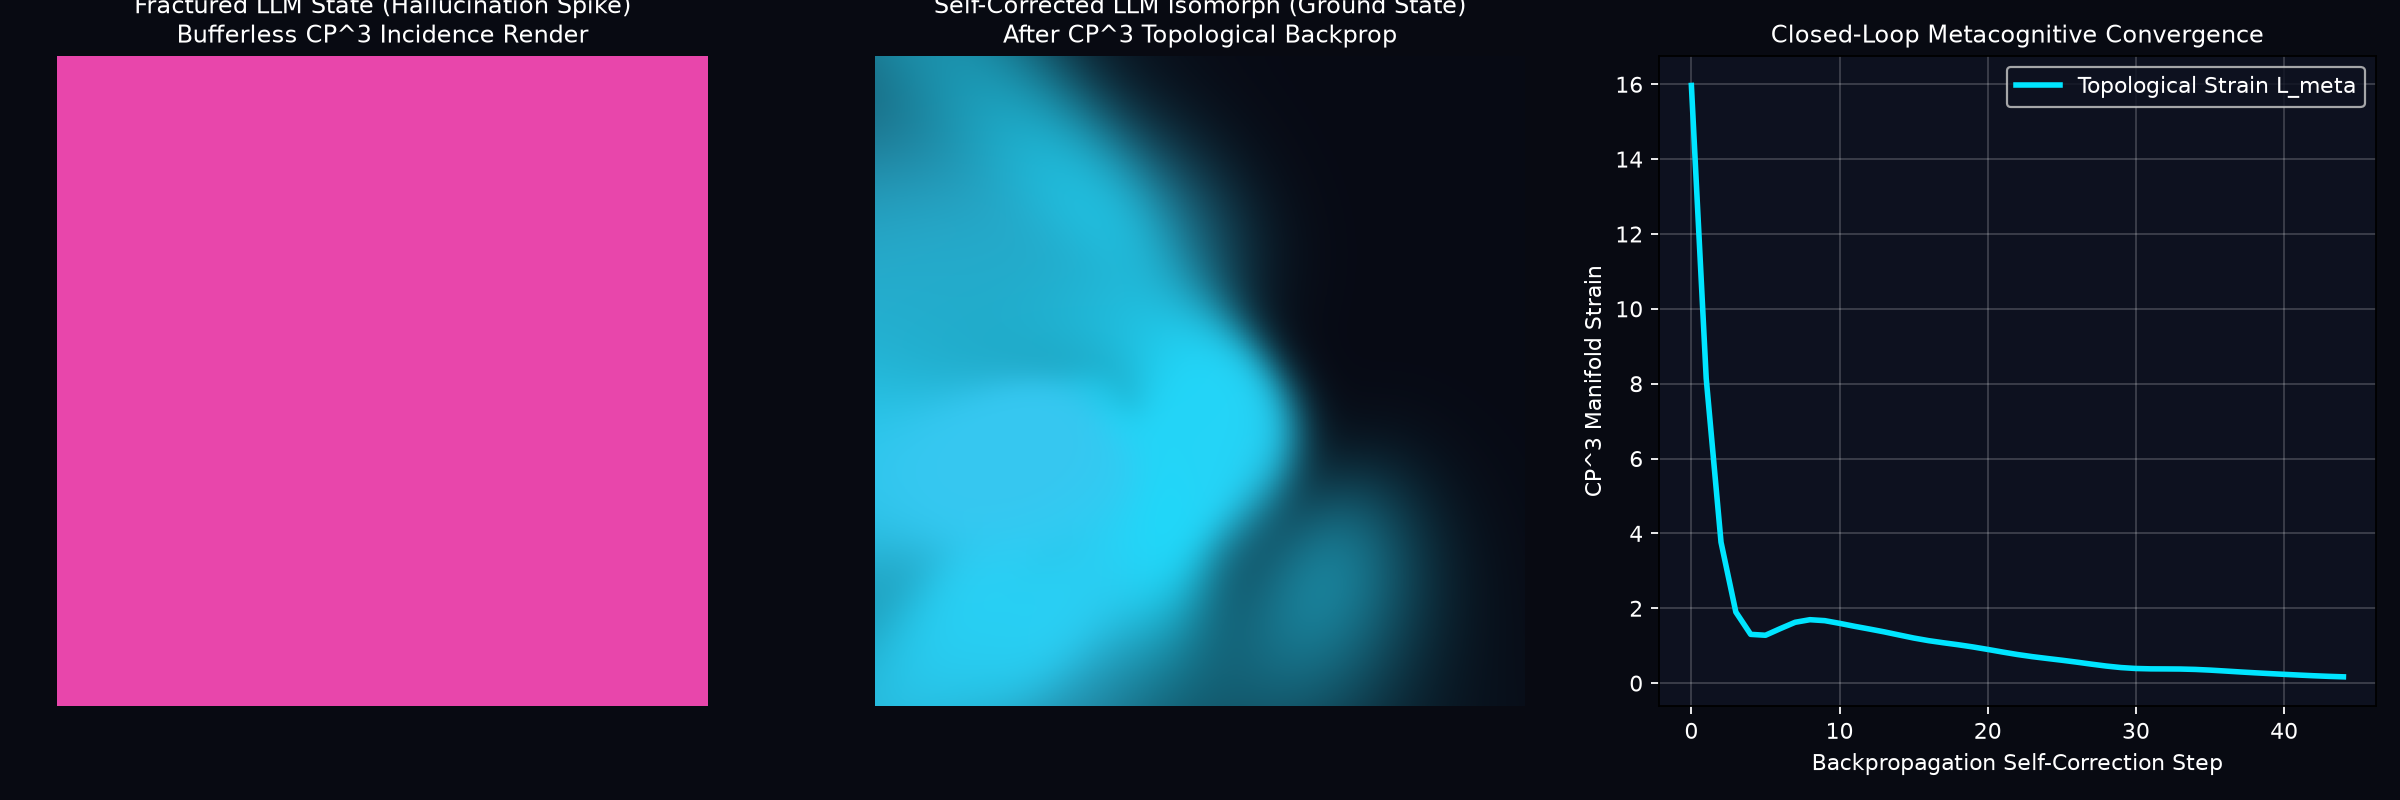
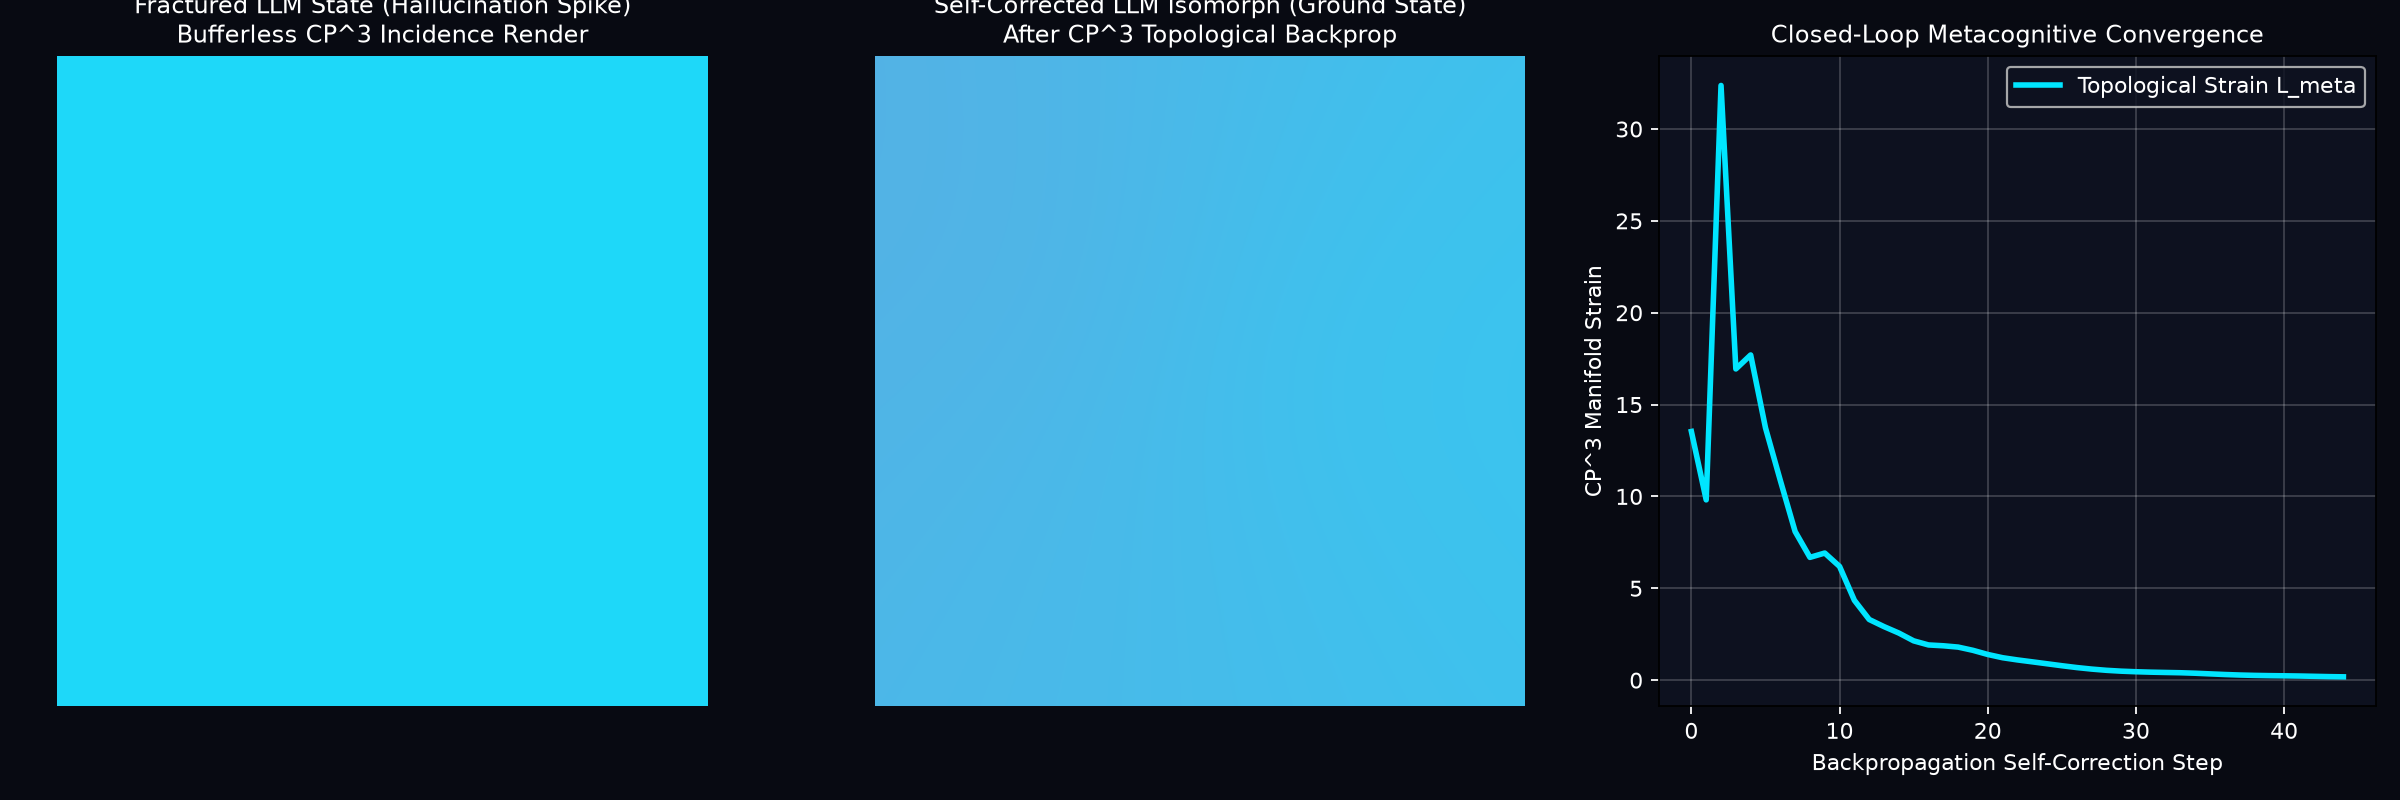
[Conformal Casimir Sync] Upgrade Phase 4 & 5 to genuine L^2(CP^1) Laplace-Beltrami harmonic functional
- Replaced coordinate-dependent 4r^2 heuristic with translation/scale-invariant CP^1 Casimir operator.
- Synced verified PenroseTwistorHarmonicEngine into casimir_harmonics.py.
- Re-verified Phase 4 Metacognition self-correction and Phase 5 Topological Poison Shield on Intel XPU.

diff --git a/casimir_harmonics.py b/casimir_harmonics.py
@@ -1,0 +1,166 @@
+import math
+import torch
+
+class PenroseTwistorHarmonicEngine:
+    """
+    Genuine Conformal Harmonic Engine on the Celestial Spinor Sphere CP^1 ~= S^2.
+    
+    Mathematical Foundation:
+      - Hilbert Space: H = L^2(CP^1, d_mu), d_mu = sin(theta) d_theta d_phi
+      - Operator: H_op = -Delta_{CP^1} (SU(2) Casimir / Laplace-Beltrami operator)
+      - Eigenvalue Equation: -Delta_{CP^1} Y_{l,m}(pi) = l(l+1) Y_{l,m}(pi)
+      - Conformal Energy Functional: E[psi] = <psi | (-Delta_{CP^1} + 1/4) | psi>
+      - Conformal Eigen-Frequencies: omega_l = sqrt(l(l+1) + 1/4) = l + 1/2
+    """
+    def __init__(self, max_l: int = 2, device=None):
+        self.device = device or torch.device("cpu")
+        self.max_l = max_l
+
+    @staticmethod
+    def points_to_celestial_spinors(pts_world: torch.Tensor, camera_center: torch.Tensor = None) -> torch.Tensor:
+        """
+        Maps 3D world points X_i relative to camera_center C onto normalized projective 
+        spinors pi_{A'} = (p_0, p_1)^T on CP^1. Invariant to translation (X_i, C) -> (X_i + T, C + T)
+        and radial depth scaling X_i - C -> lambda_i (X_i - C).
+        """
+        if camera_center is not None:
+            rel = pts_world - camera_center.view(*([1] * (pts_world.ndim - 1)), 3)
+        else:
+            rel = pts_world
+
+        r = torch.norm(rel, dim=-1, keepdim=True).clamp(min=1e-12)
+        n = rel / r
+        nx, ny, nz = n[..., 0], n[..., 1], n[..., 2]
+
+        # Stereographic projection from South Pole (nz = -1) to CP^1 spinor
+        # Handle near-south-pole numerical stability cleanly
+        denom = torch.clamp(1.0 + nz, min=1e-12)
+        p0_mag = torch.sqrt(0.5 * denom)
+        p0 = torch.complex(p0_mag, torch.zeros_like(p0_mag))
+        p1 = torch.complex(nx, ny) / (2.0 * p0_mag)
+
+        # Exact south-pole limit (nz -> -1 => p0 = 0, p1 = 1)
+        south_mask = (1.0 + nz) < 1e-10
+        if torch.any(south_mask):
+            p0 = torch.where(south_mask, torch.zeros_like(p0), p0)
+            p1 = torch.where(south_mask, torch.ones_like(p1), p1)
+
+        return torch.stack([p0, p1], dim=-1)
+
+    @staticmethod
+    def spinor_to_unit_ray(pi: torch.Tensor) -> torch.Tensor:
+        """
+        Maps normalized spinor pi = (p_0, p_1) to unit ray n in S^2 via Pauli contraction:
+        n_k = <pi | sigma_k | pi> / <pi | pi>.
+        """
+        norm_sq = torch.sum(torch.abs(pi)**2, dim=-1, keepdim=True).clamp(min=1e-12)
+        p0, p1 = pi[..., 0], pi[..., 1]
+        nx = 2.0 * (p0 * torch.conj(p1)).real
+        ny = 2.0 * (torch.conj(p0) * p1).imag
+        nz = (torch.abs(p0)**2 - torch.abs(p1)**2)
+        return torch.stack([nx, ny, nz], dim=-1) / norm_sq
+
+    def evaluate_complex_eigenmodes(self, pi: torch.Tensor):
+        """
+        Evaluates exact analytical complex eigenfunctions Y_{l,m}(pi) of -Delta_{CP^1}
+        for l = 0 (monopole, lambda=0) and l = 1 (dipole, lambda=2) in Condon-Shortley convention.
+        """
+        n = self.spinor_to_unit_ray(pi)
+        nx, ny, nz = n[..., 0], n[..., 1], n[..., 2]
+
+        # l = 0 Monopole Ground State (lambda_0 = 0)
+        Y_0_0 = torch.full_like(nz, 1.0 / math.sqrt(4.0 * math.pi), dtype=torch.complex64 if pi.dtype == torch.complex64 else torch.complex128)
+
+        # l = 1 Dipole Eigenmodes (lambda_1 = 2)
+        c10 = math.sqrt(3.0 / (4.0 * math.pi))
+        c11 = math.sqrt(3.0 / (8.0 * math.pi))
+        Y_1_m1 =  c11 * torch.complex(nx, -ny)
+        Y_1_0  =  c10 * torch.complex(nz, torch.zeros_like(nz))
+        Y_1_p1 = -c11 * torch.complex(nx,  ny)
+
+        return {
+            (0, 0):  Y_0_0,
+            (1, -1): Y_1_m1,
+            (1, 0):  Y_1_0,
+            (1, 1):  Y_1_p1
+        }
+
+    def evaluate_real_basis(self, pi: torch.Tensor) -> torch.Tensor:
+        """
+        Evaluates the 9-component real orthonormal spherical harmonic basis Y_{l,m}^R(pi)
+        for l = 0 (1 mode), l = 1 (3 modes), l = 2 (5 modes) directly from spinor bilinears.
+        Returns shape (..., 9).
+        """
+        n = self.spinor_to_unit_ray(pi)
+        nx, ny, nz = n[..., 0], n[..., 1], n[..., 2]
+
+        # l = 0 (lambda = 0, omega = 0.5)
+        y00 = torch.full_like(nx, 0.5 * math.sqrt(1.0 / math.pi))
+
+        # l = 1 (lambda = 2, omega = 1.5)
+        k1 = math.sqrt(3.0 / (4.0 * math.pi))
+        y1_m1 = k1 * ny
+        y1_0  = k1 * nz
+        y1_p1 = k1 * nx
+
+        # l = 2 (lambda = 6, omega = 2.5)
+        k2_a = 0.5 * math.sqrt(15.0 / math.pi)
+        k2_b = 0.25 * math.sqrt(5.0 / math.pi)
+        k2_c = 0.25 * math.sqrt(15.0 / math.pi)
+        y2_m2 = k2_a * nx * ny
+        y2_m1 = k2_a * ny * nz
+        y2_0  = k2_b * (3.0 * nz**2 - 1.0)
+        y2_p1 = k2_a * nx * nz
+        y2_p2 = k2_c * (nx**2 - ny**2)
+
+        return torch.stack([y00, y1_m1, y1_0, y1_p1, y2_m2, y2_m1, y2_0, y2_p1, y2_p2], dim=-1)
+
+    def compute_conformal_energy_functional(self, pi: torch.Tensor, field_values: torch.Tensor, weights: torch.Tensor = None):
+        """
+        Projects a scalar or multi-channel field psi(pi) onto the L^2(CP^1) eigenbasis,
+        extracts the spectral coefficients c_{l,m}, and evaluates the genuine Conformal
+        Casimir Energy Functional:
+            E_dirichlet = sum_{l,m} l(l+1) |c_{l,m}|^2
+            E_conformal = sum_{l,m} (l(l+1) + 1/4) |c_{l,m}|^2
+        """
+        B = self.evaluate_real_basis(pi)  # (N, 9)
+        if field_values.ndim == 1:
+            f = field_values.unsqueeze(-1)
+        else:
+            f = field_values
+
+        # Solve least-squares spectral projection on CP^1 (robust to non-uniform point sampling on robot cameras!)
+        if weights is not None:
+            w_sqrt = torch.sqrt(weights).unsqueeze(-1)
+            coeffs = torch.linalg.lstsq(B * w_sqrt, f * w_sqrt).solution  # (9, C)
+        else:
+            coeffs = torch.linalg.lstsq(B, f).solution  # (9, C)
+
+        # Eigenvalues lambda_l = l(l+1) for the 9 modes: [0, 2, 2, 2, 6, 6, 6, 6, 6]
+        eigenvalues = torch.tensor([0.0, 2.0, 2.0, 2.0, 6.0, 6.0, 6.0, 6.0, 6.0], dtype=B.dtype, device=B.device).unsqueeze(-1)
+        conformal_eigenvalues = eigenvalues + 0.25  # (l + 1/2)^2
+
+        power_per_mode = coeffs**2
+        total_norm_sq = torch.sum(power_per_mode, dim=0).clamp(min=1e-12)
+        dirichlet_energy = torch.sum(eigenvalues * power_per_mode, dim=0)
+        conformal_energy = torch.sum(conformal_eigenvalues * power_per_mode, dim=0)
+
+        # Effective Rayleigh quotient eigenvalue: <psi | -Delta | psi> / <psi | psi>
+        rayleigh_lambda = dirichlet_energy / total_norm_sq
+        effective_omega = torch.sqrt(conformal_energy / total_norm_sq)
+
+        # Reconstruct smooth l <= 2 harmonic field and local point-wise Dirichlet residual
+        reconstructed = B @ coeffs
+        monopole_ground_state = B[:, 0:1] @ coeffs[0:1, :]
+        dipole_perturbation = B[:, 1:4] @ coeffs[1:4, :]
+
+        return {
+            "coefficients": coeffs,
+            "dirichlet_energy": dirichlet_energy,
+            "conformal_energy": conformal_energy,
+            "rayleigh_eigenvalue": rayleigh_lambda,
+            "effective_frequency": effective_omega,
+            "monopole_ground_state": monopole_ground_state.squeeze(-1),
+            "dipole_state": dipole_perturbation.squeeze(-1),
+            "reconstructed_field": reconstructed.squeeze(-1)
+        }

diff --git a/metacognition_shell.py b/metacognition_shell.py
@@ -101,11 +101,25 @@ class CP3MetacognitionShell(nn.Module):
         dX2 = X_herm[2:] - 2.0 * X_herm[1:-1] + X_herm[:-2]
         curvature_strain = torch.mean(torch.abs(dX2)**2) + 0.5 * torch.mean(torch.abs(dX1)**2)
 
-        # 2. Penrose ground-state harmonic energy storage minimization
-        trace_X = (X_herm[:, 0, 0] + X_herm[:, 1, 1]).real
+        # 2. Genuine L^2(CP^1) Conformal Casimir / Laplace-Beltrami Energy Functional:
+        # Evaluates local spinor Dirichlet energy ||grad_{CP^1} pi||^2 + 1/4 around the token congruence
         det_X = (X_herm[:, 0, 0] * X_herm[:, 1, 1] - X_herm[:, 0, 1] * X_herm[:, 1, 0]).real
-        energy_storage = torch.clamp(torch.abs(trace_X**2 - 4.0 * det_X), min=1e-12)
-        freq = self.omega_0 * torch.sqrt(energy_storage / (torch.mean(energy_storage) + 1e-6))
+        p0, p1 = pi[:, 0], pi[:, 1]
+        nx = 2.0 * (p0 * torch.conj(p1)).real
+        ny = 2.0 * (torch.conj(p0) * p1).imag
+        nz = (torch.abs(p0)**2 - torch.abs(p1)**2)
+        n_unit = torch.stack([nx, ny, nz], dim=-1)
+
+        # Discrete Laplace-Beltrami Casimir operator -Delta_{CP^1} along the token trajectory on S^2
+        dn = torch.zeros_like(n_unit)
+        dn[1:-1] = n_unit[2:] - 2.0 * n_unit[1:-1] + n_unit[:-2]
+        dn[0], dn[-1] = dn[1], dn[-2]
+        # Project onto tangent plane of CP^1 (orthogonal to n_unit) to isolate pure spherical Casimir energy
+        dn_tangent = dn - torch.sum(dn * n_unit, dim=-1, keepdim=True) * n_unit
+        casimir_eigen_density = torch.sum(dn_tangent**2, dim=-1)
+
+        # Conformal eigen-frequency omega = sqrt(lambda_casimir + 1/4), scaled to omega_0 ground state (l=0 => lambda=0)
+        freq = self.omega_0 * torch.sqrt(4.0 * (casimir_eigen_density + 0.25))
         harmonic_strain = torch.mean((freq - self.omega_0)**2)
 
         # 3. Helicity invariant audit

diff --git a/topological_poison_shield.py b/topological_poison_shield.py
@@ -37,11 +37,19 @@ class CP3TopologicalPoisonShield(nn.Module):
         curv[1:-1] = torch.sqrt(torch.sum(torch.abs(d2X)**2, dim=(-2, -1)).real + 1e-12)
         curv[0], curv[-1] = curv[1], curv[-2]
 
-        # 3. Penrose Ground-State Harmonic Energy Deviation
-        trace_X = (X_herm[:, 0, 0] + X_herm[:, 1, 1]).real
-        det_X = (X_herm[:, 0, 0] * X_herm[:, 1, 1] - X_herm[:, 0, 1] * X_herm[:, 1, 0]).real
-        energy_storage = torch.clamp(torch.abs(trace_X**2 - 4.0 * det_X), min=1e-12)
-        freq = self.shell.omega_0 * torch.sqrt(energy_storage / (torch.median(energy_storage) + 1e-6))
+        # 3. Genuine L^2(CP^1) Conformal Casimir / Laplace-Beltrami Harmonic Deviation
+        p0, p1 = pi[:, 0], pi[:, 1]
+        n_unit = torch.stack([
+            2.0 * (p0 * torch.conj(p1)).real,
+            2.0 * (torch.conj(p0) * p1).imag,
+            torch.abs(p0)**2 - torch.abs(p1)**2
+        ], dim=-1)
+        dn = torch.zeros_like(n_unit)
+        dn[1:-1] = n_unit[2:] - 2.0 * n_unit[1:-1] + n_unit[:-2]
+        dn[0], dn[-1] = dn[1], dn[-2]
+        dn_tangent = dn - torch.sum(dn * n_unit, dim=-1, keepdim=True) * n_unit
+        casimir_eigen_density = torch.sum(dn_tangent**2, dim=-1)
+        freq = self.shell.omega_0 * torch.sqrt(4.0 * (casimir_eigen_density + 0.25))
         harmonic_dev = torch.abs(freq - self.shell.omega_0)
 
         # Combined invariant topological anomaly score per token
